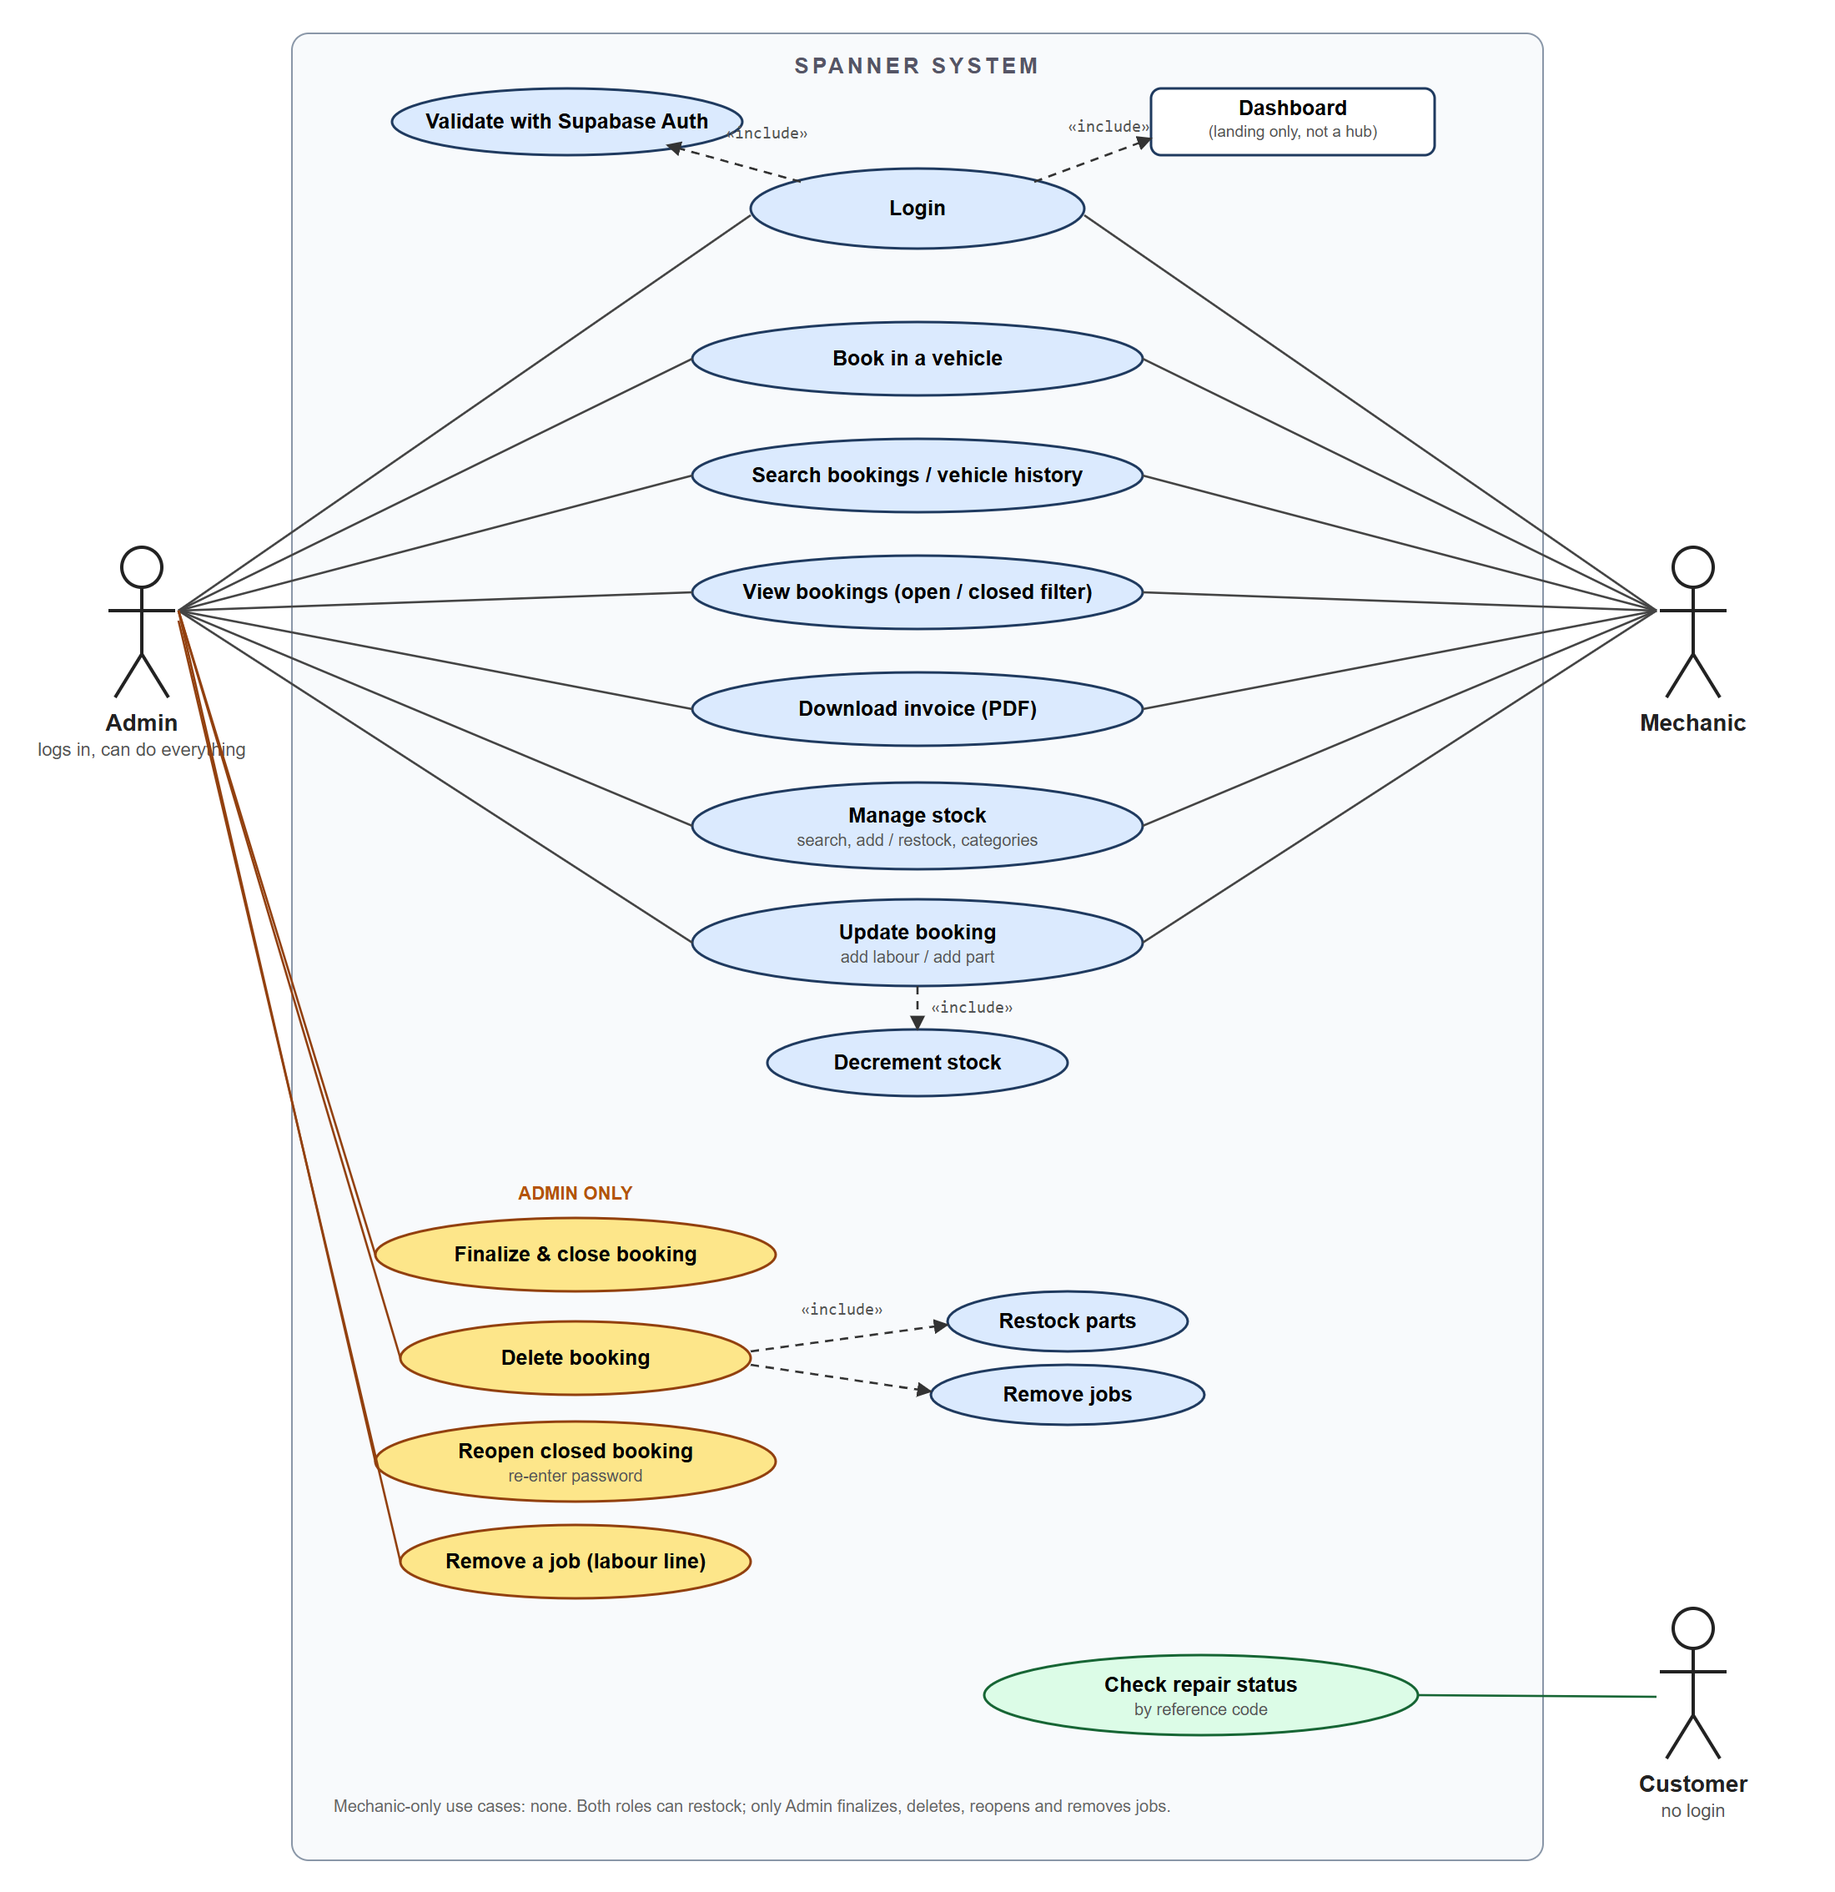
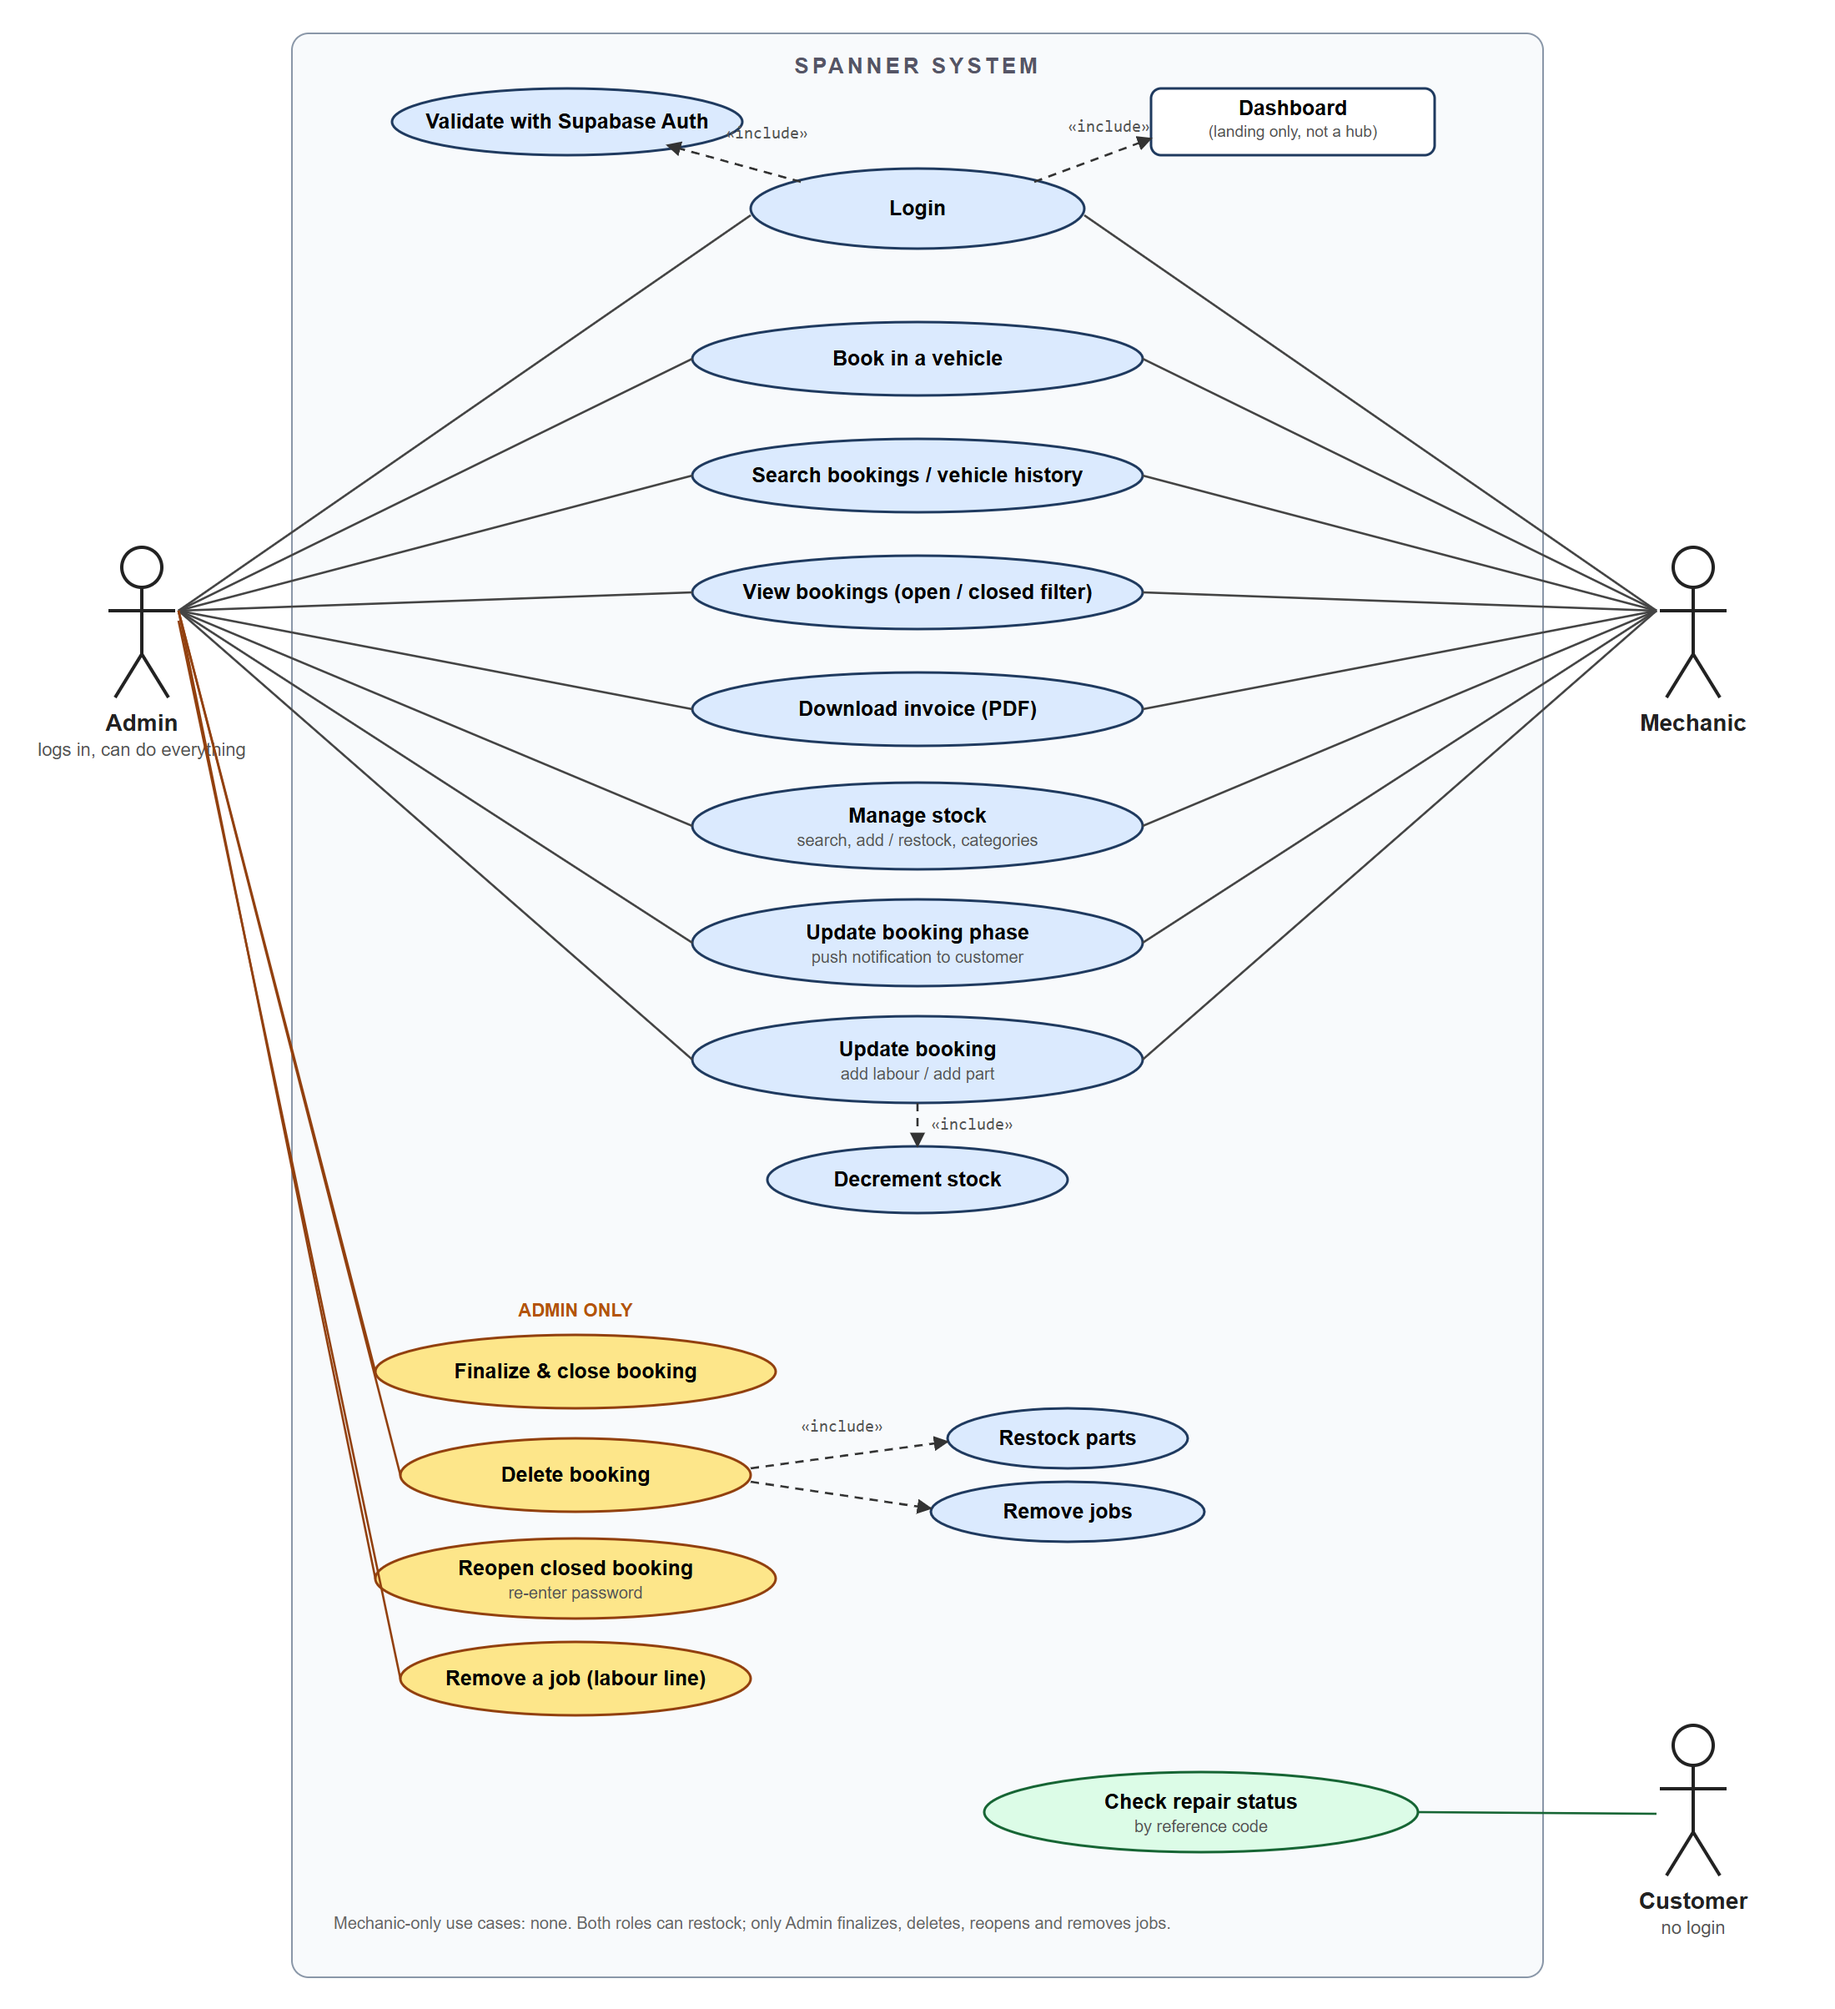
Fix issues from Gary's mobile push: key removal, phases on web, admin-only removals, atomic delete
- Remove the committed Firebase service-account key and local.properties;
  gitignore them (key must still be revoked - it is in history)
- Web Finalize/Reopen set phase like mobile; booking page shows phase and
  customer reference code
- Mobile: removing a part or labour line is admin-only; delete goes through
  delete_booking_and_restock (one transaction, fixes wrong-cost fallback)
- 0006: record of the dashboard-only schema (reconstructed, already live)
- 0007: delete function clears booking_labor and checks admin in the DB
- Use case: Update booking phase; docs and tracker updated

diff --git a/mobile/lib/features/bookings/providers/booking_deletion_service.dart b/mobile/lib/features/bookings/providers/booking_deletion_service.dart
@@ -1,38 +1,28 @@
 import 'package:flutter_riverpod/flutter_riverpod.dart';
-import '../../stock/models/stock_movement.dart';
+import 'package:supabase_flutter/supabase_flutter.dart';
 import '../../stock/providers/stock_item_provider.dart';
-import '../../stock/providers/stock_movement_service.dart';
 import '../models/vehicle_booking.dart';
-import 'booking_labor_provider.dart';
-import 'booking_parts_provider.dart';
 import 'vehicle_booking_provider.dart';
 
 class BookingDeletionService {
   BookingDeletionService(this.ref);
   final Ref ref;
 
+  // One database call (supabase/migrations/0007) restocks every part, removes
+  // labour and parts, then deletes the booking in a single transaction - the
+  // same function the web app uses. The old version did this in several
+  // separate calls, so a failure halfway left stock and bookings out of sync.
+  // The function also refuses anyone who isn't an admin.
   Future<void> deleteBooking(VehicleBooking booking) async {
-    final partRepo = ref.read(bookingPartRepositoryProvider);
-    final stockItems = ref.read(stockItemProvider).value ?? [];
-    final parts = await partRepo.fetchForBooking(booking.id);
+    final client = Supabase.instance.client;
+    await client.rpc('delete_booking_and_restock', params: {
+      'p_booking_id': booking.id,
+      'p_user_id': client.auth.currentUser?.id,
+    });
 
-    for (final part in parts) {
-      final item = stockItems.firstWhere(
-        (i) => i.id == part.stockItemId,
-        orElse: () => stockItems.first,
-      );
-      await ref.read(stockMovementServiceProvider).recordMovement(
-            itemId: part.stockItemId,
-            type: MovementType.stockIn,
-            quantity: part.quantity,
-            costAtTime: item.costPrice,
-            reference: 'Booking ${booking.registration} deleted',
-          );
-    }
-
-    await partRepo.removeAllForBooking(booking.id);
-    await ref.read(bookingLaborRepositoryProvider).removeAllForBooking(booking.id);
+    // The row is already gone; this just drops it from the local list.
     await ref.read(vehicleBookingProvider.notifier).removeBooking(booking.id);
+    ref.invalidate(stockItemProvider);
   }
 }
 

diff --git a/mobile/lib/features/bookings/presentation/booking_detail_screen.dart b/mobile/lib/features/bookings/presentation/booking_detail_screen.dart
@@ -143,7 +143,8 @@ else
                 children: [
                   Text('R ${(part.unitPrice * part.quantity).toStringAsFixed(2)}',
                   style: const TextStyle(fontWeight: FontWeight.bold)),
-                  if (isOpen)
+                  // Removing parts/labour is admin-only (agreed 23 Sept).
+                  if (isOpen && isAdmin)
                   IconButton(
                     icon: const Icon(Icons.close, size: 20),
                     onPressed: () => _confirmRemovePart(context, ref, booking, part, stockItems),
@@ -179,7 +180,8 @@ else
               children: [
                Text('R ${item.price.toStringAsFixed(2)}',
                   style: const TextStyle(fontWeight: FontWeight.bold)),
-                  if (isOpen)
+                  // Removing parts/labour is admin-only (agreed 23 Sept).
+                  if (isOpen && isAdmin)
                   IconButton(
                     icon: const Icon(Icons.close, size: 20),
                     onPressed: () => _confirmRemoveLabor(context, ref, booking.id, item),

diff --git a/web/Pages/Bookings/Details.cshtml.cs b/web/Pages/Bookings/Details.cshtml.cs
@@ -97,6 +97,7 @@ public class DetailsModel(Supabase.Client supabase, IConfiguration config) : Pag
             await supabase.From<Booking>()
                 .Filter("id", Constants.Operator.Equals, id.ToString())
                 .Set(x => x.Status!, "closed")
+                .Set(x => x.Phase!, "finalized")
                 .Set(x => x.ClosedAt!, DateTime.UtcNow)
                 .Update();
         }
@@ -207,6 +208,7 @@ public class DetailsModel(Supabase.Client supabase, IConfiguration config) : Pag
             await supabase.From<Booking>()
                 .Filter("id", Constants.Operator.Equals, id.ToString())
                 .Set(x => x.Status!, "checked_in")
+                .Set(x => x.Phase!, "ready_for_pickup") // same as mobile's reopen
                 .Set(x => x.ClosedAt!, (DateTime?)null)
                 .Update();
         }

diff --git a/web/Models/Booking.cs b/web/Models/Booking.cs
@@ -54,6 +54,17 @@ public class Booking : BaseModel
     [Column("invoice_number", ignoreOnInsert: true)]
     public string? InvoiceNumber { get; set; }
 
+    // Added by mobile (Sept 2026, recorded in supabase/migrations/0006): the
+    // customer-facing phase and the random reference code customers use to
+    // look their car up. Both DB-defaulted, so ignoreOnInsert like the above.
+    // Finalize/Reopen here must set Phase too, or a customer keeps seeing
+    // "Labor in progress" after a web finalize.
+    [Column("phase", ignoreOnInsert: true)]
+    public string? Phase { get; set; }
+
+    [Column("reference_code", ignoreOnInsert: true)]
+    public string? ReferenceCode { get; set; }
+
     [Column("customer_id")]
     public Guid? CustomerId { get; set; }
 

diff --git a/project-docs/phase-2/progress-tracker.md b/project-docs/phase-2/progress-tracker.md
@@ -46,9 +46,11 @@ module — see `phase2-checklist.md` for the full rubric breakdown).
 | 18 | Update Microsoft Project + screenshot into the SRS | **Khumo** | Not started | — | 2026-10-03 |
 | 19 | Final top-up of the Progress Checker (incl. Phase 2 Group Reflection) | Wisani | Not started | — | 2026-10-08 |
 | 20 | Presentation & defence rehearsal — everyone must be able to explain the whole design | All | Not started | — | Week of 2026-10-06 |
-| 21 | **New:** Customer repair-status lookup (reference code, no login) — confirmed at the consultation (plan: `u3-21-repair-status-lookup-plan.md`) | **Unassigned — needs an owner** | Not started | — | 2026-09-23 (group's own target) |
-| 22 | **New:** Mobile login validated by Supabase Auth (replace role picker; picker kept for testing only) | **Unassigned** (suggest Gary) | Not started | — | 2026-10-01 |
-| 23 | **New:** Apply agreed permissions in web + mobile — only Admin can finalize, delete, reopen, remove jobs; both restock | Wisani (review: Gary) | In progress: web done 24 Sept (Reopen gated, 209fd0b); mobile outstanding | — | 2026-10-01 |
+| 21 | **New:** Customer repair-status lookup (reference code, no login) | **Gary** (built on mobile, pushed 28 Sept) | Done (mobile); web page not built | 2026-09-28 | 2026-09-23 |
+| 22 | **New:** Mobile login validated by Supabase Auth, role from `profiles` | **Gary** | Done (pushed 28 Sept) | 2026-09-28 | 2026-10-01 |
+| 23 | **New:** Apply agreed permissions in web + mobile — only Admin can finalize, delete, reopen, remove jobs; both restock | Wisani (review: Gary) | Done in code (web 24 Sept; mobile 28 Sept incl. remove part/labour; DB check in 0007). Needs Gary to build mobile + run 0007 | 2026-09-24 | 2026-10-01 |
+| 24 | **New:** Revoke the leaked Firebase service-account key and create a new one | **Gary** | Not started — urgent | — | 2026-09-29 |
+| 25 | **New:** Run migration 0007; check 0006 against the live schema (`supabase db pull`) | **Gary** | Not started | — | 2026-10-01 |
 
 **Task 11 note:** checked off at Wisani's explicit instruction (20 Sept) —
 the real screenshots and wireframe flow satisfy the deliverable, but they

diff --git a/project-docs/phase-2/CHANGELOG.md b/project-docs/phase-2/CHANGELOG.md
@@ -1,5 +1,18 @@
 # Change Log
 
+## 2026-09-28 — Gary's mobile push reviewed, problems fixed, migrations 0006/0007
+
+Gary pushed mobile login (Supabase + profiles role), admin-only Finalize/Delete/Reopen, five booking phases with push notifications, and the customer reference-code lookup (U3-21 and U3-22 now built on mobile).
+
+Fixed in this branch:
+- **Security:** `mobile/firebase-service-account-minified.json` (a Firebase private key) and `mobile/android/local.properties` removed from the repo and added to `.gitignore`. The key is still in git history, so **Gary must revoke it in Google Cloud**.
+- **Web ignored phases:** web Finalize now sets `phase = 'finalized'` and web Reopen sets `'ready_for_pickup'` (same as mobile), so customers never see a stale phase. Web booking page shows the phase and the customer reference code.
+- **Mobile:** removing a part or labour line is now admin-only (agreed rule). Mobile delete now calls the one `delete_booking_and_restock` database function (atomic) instead of several separate calls; this also removes a bug that recorded the wrong stock item's cost.
+- **`0006`**: record of the dashboard-only schema (profiles, phase, reference_code, booking_push_tokens, four functions). Reconstructed from the mobile code; already live, not to be run there.
+- **`0007`**: delete function now also clears mobile `booking_labor` and refuses non-admins in the database itself. To be run by Gary.
+- Use case: added **Update booking phase** (both roles; notifies the customer).
+- The U3-21 plan doc (invoice number + registration) is superseded by Gary's dedicated random reference code.
+
 ## 2026-09-25 — Editable sources, Reopen gate, U3-21 plan, branch merged with main
 
 - **Editable diagram sources**: `diagrams/editable/*.drawio` for the use case and all five sequence diagrams, generated from the same definitions as the PNGs and checked to open and render in diagrams.net. README explains how to get a Google Drive share link, which is the editable-source link the brief asks for.

diff --git a/project-docs/phase-2/u3-21-repair-status-lookup-plan.md b/project-docs/phase-2/u3-21-repair-status-lookup-plan.md
@@ -1,5 +1,7 @@
 # U3-21: Customer repair-status lookup, proposed plan (for Gary to approve)
 
+> **Superseded 28 Sept 2026.** Gary built the lookup on mobile using a dedicated random `reference_code` column and the `get_booking_by_reference_code` function (recorded in `supabase/migrations/0006`). Kept for the history of the decision.
+
 Confirmed at the 22 Sept consultation: a customer enters a reference code and
 sees what stage their car is at, **with no login**. This plan is a proposal
 and has not been built or applied.
